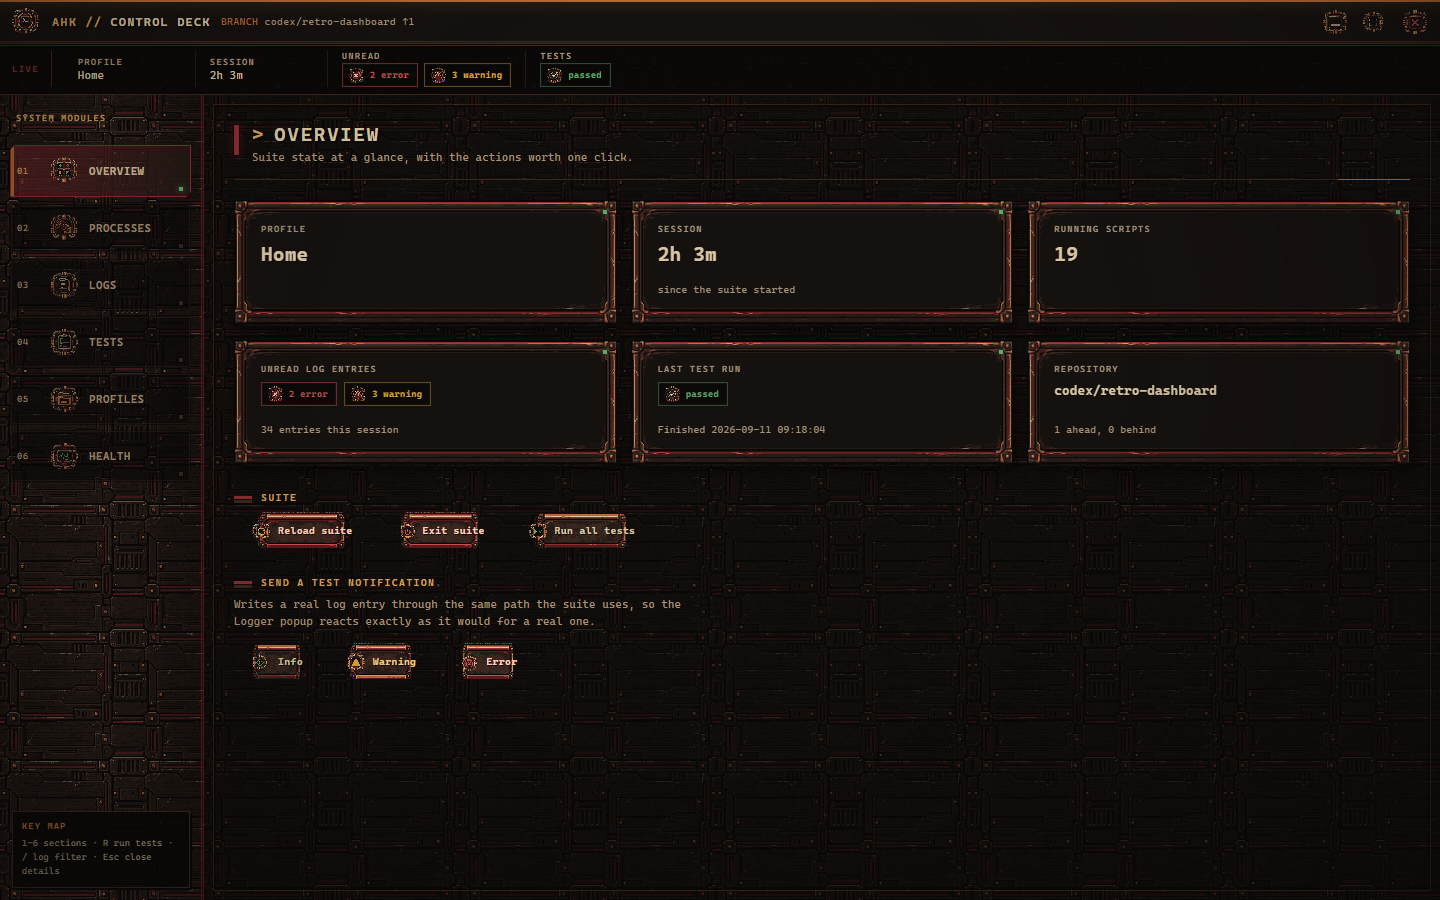
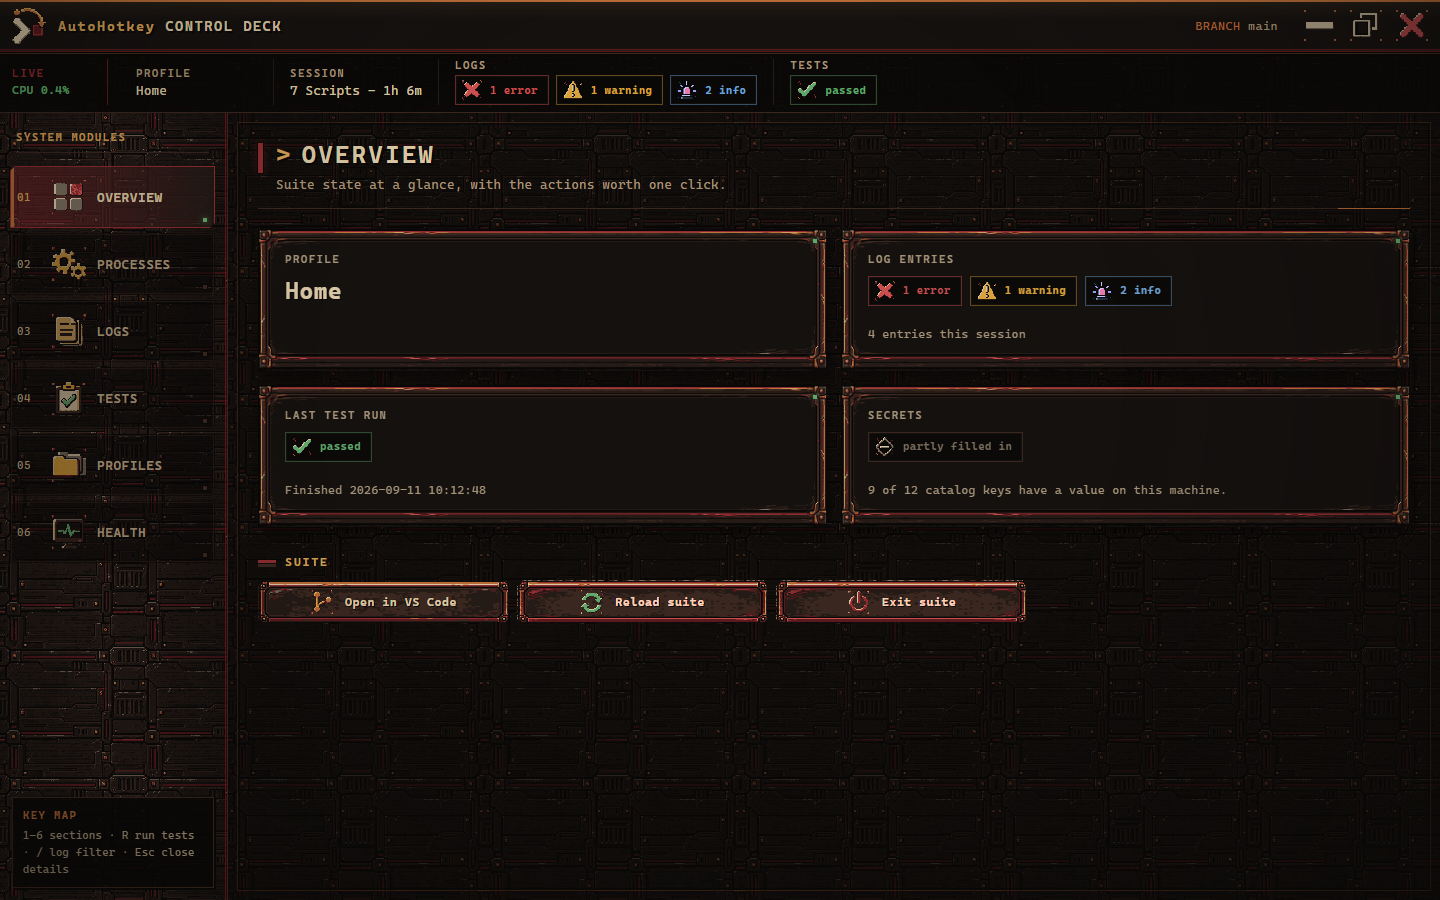
Document and showcase the finished Control Deck
- Replace the README screenshot with the current Overview, rendered from
  the real page with made-up data so it carries no device names, paths, or
  secrets.
- Lay the Overview's four cards out as two rows of two at every width
  above the narrow breakpoint, instead of three and one.
- Trim the design record to the decisions that were kept, point to the
  shipped code and focused documents as authoritative, and drop the
  delivery plan.
- Describe the instant, hidden start and the section links in the README,
  and every way to start a test run in the testing guide.

Closes #120

diff --git a/Dashboards/Control Deck/User Interface/styles.css b/Dashboards/Control Deck/User Interface/styles.css
@@ -222,6 +222,8 @@ img { image-rendering: pixelated; }
 
 /* === Panels and overview =============================================== */
 .card-grid { display: grid; grid-template-columns: repeat(auto-fit, minmax(320px, 1fr)); gap: var(--gap); }
+/* Four cards read as two rows of two; auto-fit would leave one card alone. */
+#section-overview .card-grid { grid-template-columns: repeat(2, minmax(0, 1fr)); }
 .card {
 	position: relative;
 	min-width: 0;
@@ -478,7 +480,7 @@ th[aria-sort="descending"] .sort-header::after { color: var(--red-highlight); co
 	.title-text { font-size: 13px; }
 	.title-kicker, .git-status { display: none; }
 	.title-btn { width: 40px; }
-	.card-grid { grid-template-columns: 1fr; }
+	.card-grid, #section-overview .card-grid { grid-template-columns: 1fr; }
 	.toolbar::before, .test-buttons { display: none; }
 	.toolbar select { min-width: 0; flex: 1 1 130px; }
 	.action-row > .button:not(.test-control) { flex: 1 1 100%; }

diff --git a/docs/decisions/control-deck.md b/docs/decisions/control-deck.md
@@ -1,101 +1,30 @@
 # AutoHotkey Control Deck: design record
 
-This records the decisions used to ship the **AutoHotkey Control Deck**: one WebView2 cockpit for the running suite. The shipped code, `Startup/Startup.ahk`, and the focused documents are authoritative.
+This is a short historical record for [epic #108](https://github.com/Flop0333/AutoHotkey/issues/108) and the retro redesign that followed it. The Control Deck has shipped: one WebView2 window that replaced the separate Log and Test Dashboards and operates the running suite. Current behavior is documented in the [app catalog](../APPS.md), [installation guide](../INSTALLATION.md), and [testing guide](../TESTING.md), and defined by the code under [`Dashboards/Control Deck`](../../Dashboards/Control%20Deck/Dashboard.ahk) and [`Apps Integrated/Suite Control`](../../Apps%20Integrated/Suite%20Control/Suite%20Control.ahk).
 
-## Goal
+## Decisions retained
 
-Today the suite is operated from the tray menu (Reload, Profile, Log Dashboard, Test Dashboard, Exit) and from two separate WebView2 windows that each show one slice of the system. The Control Deck replaces that split with a single window that answers three questions and acts on them:
-
-- **What is running?** Profile, uptime, the AutoHotkey processes that belong to the suite, and whether the expected startup set is actually up.
-- **Is anything wrong?** This session's log entries by severity, the last test run, and environment health.
-- **Can I change it from here?** Reload, exit, switch profile, restart a single app, run tests, and emit test notifications.
-
-## Scope
-
-| In scope | Out of scope |
-|---|---|
-| Rename `Dashboards/Log Dashboard` to `Dashboards/Control Deck` and keep the log views as one section. | The Logger popup (`Dashboards/Logger`), which stays the resident notification surface. |
-| Absorb the Test Dashboard into a Tests section and retire the standalone dashboard once it is at parity. | Remote or network control of the suite. Everything stays local and in-process-family. |
-| Add suite control: reload, exit, profile switch, per-script restart/stop. | Editing profiles, secrets, or hotkeys from the dashboard. |
-| Add a health/diagnostics section. | Replacing the Macro Board or Age of Efficiency launchers. |
-
-## Sections
-
-1. **Overview** — profile card, secrets file state, the session's log counts by severity (with how many are unread), last test result, and the primary actions (Open in VS Code, Reload suite, Exit suite). The status strip shows the suite's processor use beside its LIVE marker, the running-script count with the session uptime, and the same log counts, whether or not they have been read. The git branch sits in the title bar beside the window controls. Until tests have run this session, the strip and the Overview offer a Run tests button in place of a test result. Each strip readout and Overview card opens the section that explains it; the Secrets card opens `Secrets/My Secrets.json` in VS Code.
-2. **Processes** — the AutoHotkey processes that belong to the suite: script name, path, PID, start time. Per row: restart or stop. Processes running from outside the repository are listed last. Expected-but-missing entries are flagged so a crashed app is visible without reading the log.
-3. **Logs** — the current Log Dashboard view: severity/script filters, sorting by clicking the Time, Severity, Script, or Message column header, detail panel with message and stack, copy to clipboard, archived sessions.
-4. **Tests** — run all suites or one suite, live run status, the last run's per-suite pass/fail and duration, and the run history already written to `Logs/test-run-history.log`.
-5. **Profiles** — every profile from `Profiles/Profile Manager.ahk`, the active one first, which device names map to it, and a switch action that restarts the suite into the chosen profile.
-6. **Health** — AutoHotkey version and path, WebView2 runtime presence, resolved `Paths` roots, log session id and directory, secrets file sync state, and shortcuts to open the `Logs` folder or the repository.
-
-## Architecture
-
-The dashboard keeps the established dashboard shape: `Dashboard.ahk` is the composition root and host process, `Controller.ahk` holds the `WebViewToo` subclass and its `AddCallbackToScript` surface, `Control Deck.ahk` exposes `ShowControlDeck()` / `HideControlDeck()` to other scripts, and `User Interface/` holds HTML, CSS, JS, and `AhkDataService.js`.
-
-Suite control does **not** live in the controller. A reusable service under `Apps Integrated/Suite Control/` owns it, so the same operations are callable from the tray menu, a hotkey, or a unit test:
-
-```text
-Dashboards/Control Deck/Dashboard.ahk   (host process, composition root)
-    -> Controller.ahk                        (WebView callbacks only)
-        -> Apps Integrated/Suite Control/... (reload, exit, inventory, restart)
-        -> Lib/Core/OnError.ahk              (log reading and test entries)
-        -> Profiles/Profile Manager.ahk      (profile list and requested profile)
-```
-
-The dashboard runs in its own process, so control actions are cross-process by nature. That is how the suite reload works: it kills every other AutoHotkey process, starts `Startup/Startup.ahk`, and exits itself. The service formalizes the rest:
-
-- **Inventory** — enumerate AutoHotkey processes and read each one's script path from its (hidden) main window title, rather than guessing from the startup list.
-- **Restart one script** — stop the process owning a script path and run it again, without touching the rest of the suite.
-- **Expected set** — compare the inventory against the apps `RunStartup()` launches. A shared, declarative startup list is preferred over parsing `Startup.ahk`; that list stays authoritative for what starts.
-
-### Profile switching across a restart
-
-`ProfileManager.Set()` persists to `Profiles/current_profile.ini`, but a plain restart runs `RunStartup()` with no argument, which calls `SetByComputerName()` and overwrites the choice. A dashboard-initiated switch therefore needs an explicit handoff — a requested-profile value that `RunStartup()` honours once and then clears — so "switch to Work and restart" survives the restart on a machine whose computer name maps elsewhere. This is the one change outside the dashboard folder that the feature genuinely requires.
-
-### Callback surface
-
-Read paths stay synchronous and cheap enough to poll (`ahk.sync.*`, one second, matching the existing dashboards). Every action that changes state is a separate, explicitly named callback — no generic "run this command" bridge from the web layer.
+- **One window, six sections.** Overview, Processes, Logs, Tests, Profiles, and Health share one host. The Logger popup stays the resident notification surface and opens the Control Deck on Logs.
+- **Three roles, kept apart.** `Dashboard.ahk` is the host process and composition root, `Controller.ahk` holds only the WebView callbacks, and `Control Deck.ahk` is the client API (`ShowControlDeck()`, `HideControlDeck()`) other scripts include. The page lives under `User Interface/`, with `AhkDataService.js` as its only route to the host.
+- **Suite control is a service, not controller code.** Reload, exit, inventory, restart, and stop live in `Apps Integrated/Suite Control`, so the tray, a hotkey, or a unit test can call them too. Inventory reads each script's path from its hidden main window title.
+- **One declarative startup list.** `SuiteStartupScripts()` drives both `RunStartup()` and the Processes section, which flags an expected script that is not running.
+- **Started hidden with the suite.** The host is the last entry in that list and loads hidden, so opening it is instant; it is still started on demand when it is missing. While hidden, the page is told so and its one-second poll pauses.
+- **Profile switching survives the restart.** A requested profile is recorded for the next start and honoured once, so switching to a profile that does not match the computer name is not undone by auto-detection.
+- **Tests run the CI workflow.** The Tests section and the Run tests buttons start `Tests/Invoke-AllTests.ps1`, one run at a time, and read its status and history files scoped to the current suite session.
+- **Session-scoped status.** Log counts, unread counts, and test results describe the current suite session; earlier sessions stay in `Logs/Archive`.
 
 ## Safety model
 
-- Reload, exit, and stopping a process are confirmed in the page before the callback fires; the dashboard never inherits the tray's `MsgBox` prompts into a hidden window.
-- Exiting the suite from the dashboard exits the dashboard too. The page says so before it happens.
-- The web layer can only call named callbacks. No arbitrary path, command line, or PowerShell string crosses the bridge.
-- Test notifications write ordinary log entries through the existing `LogAndNotify*` functions, so they exercise the real path.
-- Local files, local processes, no network calls beyond the git status the dashboard already reads.
+- The web layer can only call named callbacks. No path, command line, or script text crosses the bridge; scripts are addressed by process id and files by the host.
+- Reload, exit, stop, and profile switching are confirmed in the page before anything happens, never through a message box the hidden host would open behind its own window.
+- Exiting or reloading the suite ends the Control Deck too, and the confirmation says so.
+- Secrets are reported as counts only. Values and key names never reach the page; the Secrets card opens the local file in VS Code rather than displaying it.
+- Everything is local: files, processes, and the git status of the checkout. External commands run hidden.
 
 ## Visual direction
 
-The Control Deck uses an original **AHK Control Deck** theme: a dark 1990s maintenance console rendered with black, brown, oxblood, copper, brass, and semantic status colours. The generated runtime artwork and its source-of-truth palette are catalogued in `Dashboards/Control Deck/User Interface/assets/control-deck/ASSET-MANIFEST.md`; HTML and CSS continue to own all labels, layout, focus, and responsive behavior.
+The **Control Deck** theme is an original, offline pixel-art kit in the style of a 1990s maintenance console, catalogued in its [asset manifest](../../Dashboards/Control%20Deck/User%20Interface/assets/control-deck/ASSET-MANIFEST.md). HTML and CSS own every label, layout, focus state, and responsive behavior; artwork is decoration only. Status is shown by shape, label, and colour together, keyboard focus stays visible, and motion respects `prefers-reduced-motion`.
 
-- The persistent rail is a numbered module selector with a compact horizontal mode for narrow windows. The custom title bar and global status HUD remain visible from every section.
-- Cards, dialogs, buttons, window controls, status symbols, and action icons use the locally bundled pixel-art kit. Nine-slice-style `border-image` treatment preserves panel and button corners as components resize.
-- Logs and test output keep native text and table layouts on dark screen surfaces; decoration never becomes part of the data or blocks pointer input.
-- Status is communicated through shape, label, and colour. Keyboard focus remains visible, selectable rows support Enter and Space, and nonessential motion respects `prefers-reduced-motion`.
-- Motion is limited to short state changes, system messages, and active sampling indicators. There is no continuous CRT flicker or network-loaded visual dependency.
-- Keyboard-first: number keys navigate between sections, `R` runs tests, `/` focuses the log filter, and `Esc` closes the detail panel.
-- The window is resized freely, so layouts are fluid rather than fixed to one screen size.
+## Why this record is intentionally brief
 
-## Delivery plan
-
-Each phase is independently mergeable and leaves the suite working.
-
-1. **Foundations** — the Suite Control service and the requested-profile handoff, with unit coverage. No UI change yet.
-2. **Rename and shell** — `Log Dashboard` becomes `Control Deck` across code, tray, Macro Board, Age of Efficiency, the syntax-check target list, integration tests, and documentation; the new shell renders the Logs section as it exists today.
-3. **Control sections** — Overview, Processes, and Profiles on top of phase 1.
-4. **Tests section** — the Test Dashboard's behaviour inside the new window, reusing `Logs/test-run-status.json` and `Logs/test-run-history.log`; the standalone dashboard is retired once it is at parity.
-5. **Health and polish** — diagnostics section, keyboard shortcuts, motion, and the README showcase update.
-
-## Validation
-
-Beyond the usual suites, the change touches startup, includes, and logging, so `./Tests/Invoke-AllTests.ps1` applies to every phase. Additional expectations:
-
-- Unit coverage for the inventory parsing and the requested-profile handoff, with no real process control in unit tests.
-- The logging integration test keeps covering the renamed dashboard host, including its lazy start.
-- `Invoke-SyntaxCheck.ps1` targets the renamed host, and the Test Dashboard target is removed only in the phase that retires it.
-
-## Decisions made
-
-- The tray keeps one **Control Deck** item alongside Reload and Exit.
-- A declarative startup list is consumed by both `RunStartup()` and the Processes section, which flags expected-but-missing scripts.
-- The Tests section runs the combined `Invoke-AllTests.ps1` workflow so local and CI behaviour stay aligned.
+The original proposal described phases, planned files, and validation steps that changed during implementation. Keeping that text made it look authoritative after the Control Deck shipped. The code, startup list, and focused documents are now the single source of truth.

diff --git a/README.md b/README.md
@@ -22,9 +22,9 @@ It started as a collection of small scripts and grew into a profile-aware automa
 
 ### AutoHotkey Control Deck
 
-The suite control centre shows what is running, flags missing startup apps, surfaces logs and environment health, runs the complete test suite, and provides safe reload, exit, restart, stop, and profile-switch actions. Open it from the tray or Macro Board; Logger notifications land on Logs, and the Age of Efficiency `Test` command lands on Tests.
+The suite control centre shows what is running, flags missing startup apps, surfaces logs and environment health, runs the complete test suite, and provides safe reload, exit, restart, stop, and profile-switch actions. It starts hidden with the suite, so it opens instantly from the tray or Macro Board; Logger notifications land on Logs, and the Age of Efficiency `Test` command lands on Tests.
 
-Its **AHK Control Deck** interface combines a readable system terminal with original pixel-art navigation, status modules, hardware panels, and action controls.
+Its retro maintenance-console interface combines a readable system terminal with original pixel-art navigation, status modules, hardware panels, and action controls. Every readout in the status strip and on the Overview opens the section behind it.
 
 ![AutoHotkey Control Deck](Dashboards/Control%20Deck/Demo.png)
 

diff --git a/docs/TESTING.md b/docs/TESTING.md
@@ -57,7 +57,7 @@ Targets are discovered from the suite startup wiring, plus the logging hosts, Co
 
 ## Control Deck and results
 
-Double-click `Tests/Run-Tests.ahk` or run the `Test` command in Age of Efficiency. The launcher opens the Control Deck on **Tests** and runs `Invoke-AllTests.ps1` in a hidden PowerShell process. The section scopes status and history to the current suite session and refuses to start a second run while one is in progress.
+Double-click `Tests/Run-Tests.ahk` or run the `Test` command in Age of Efficiency. The launcher opens the Control Deck on **Tests** and runs `Invoke-AllTests.ps1` in a hidden PowerShell process. Inside the Control Deck, the Tests section's run button, the `R` key, and the **Run tests** button that the status strip and Overview show until the first run of a session all start the same run. The section scopes status and history to the current suite session and refuses to start a second run while one is in progress.
 
 The combined runner executes all five suites and writes git-ignored runtime data:
 
